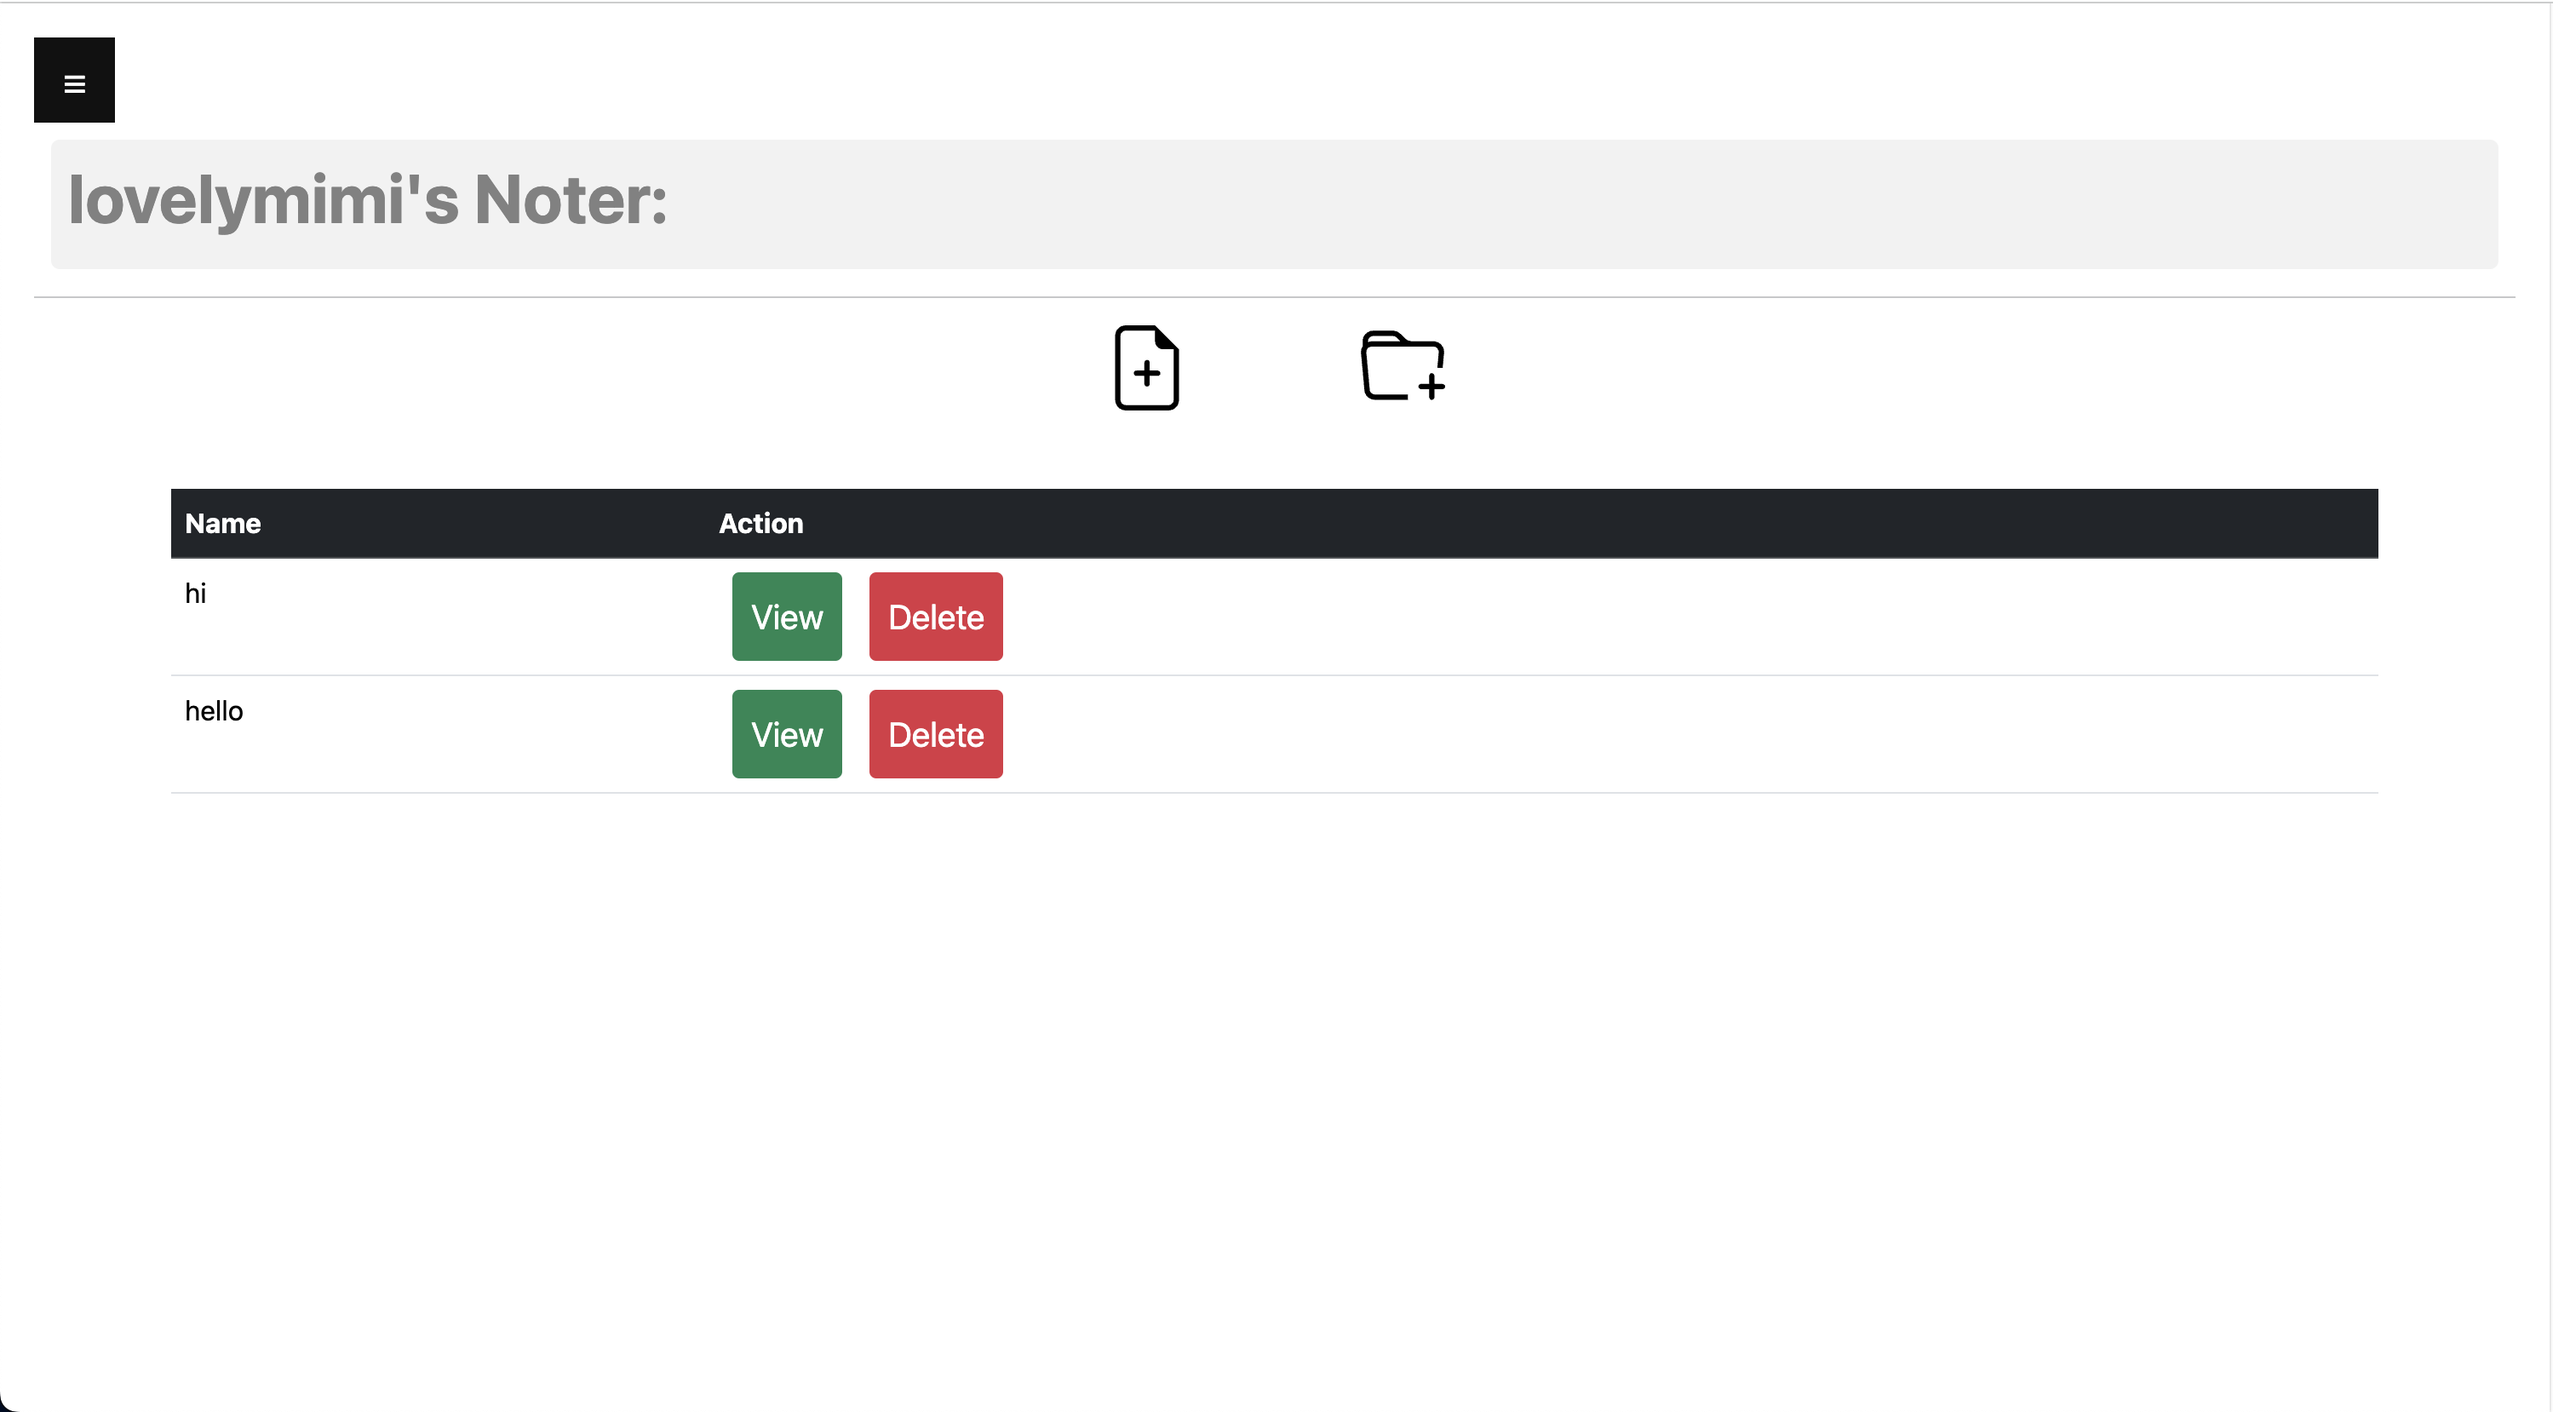
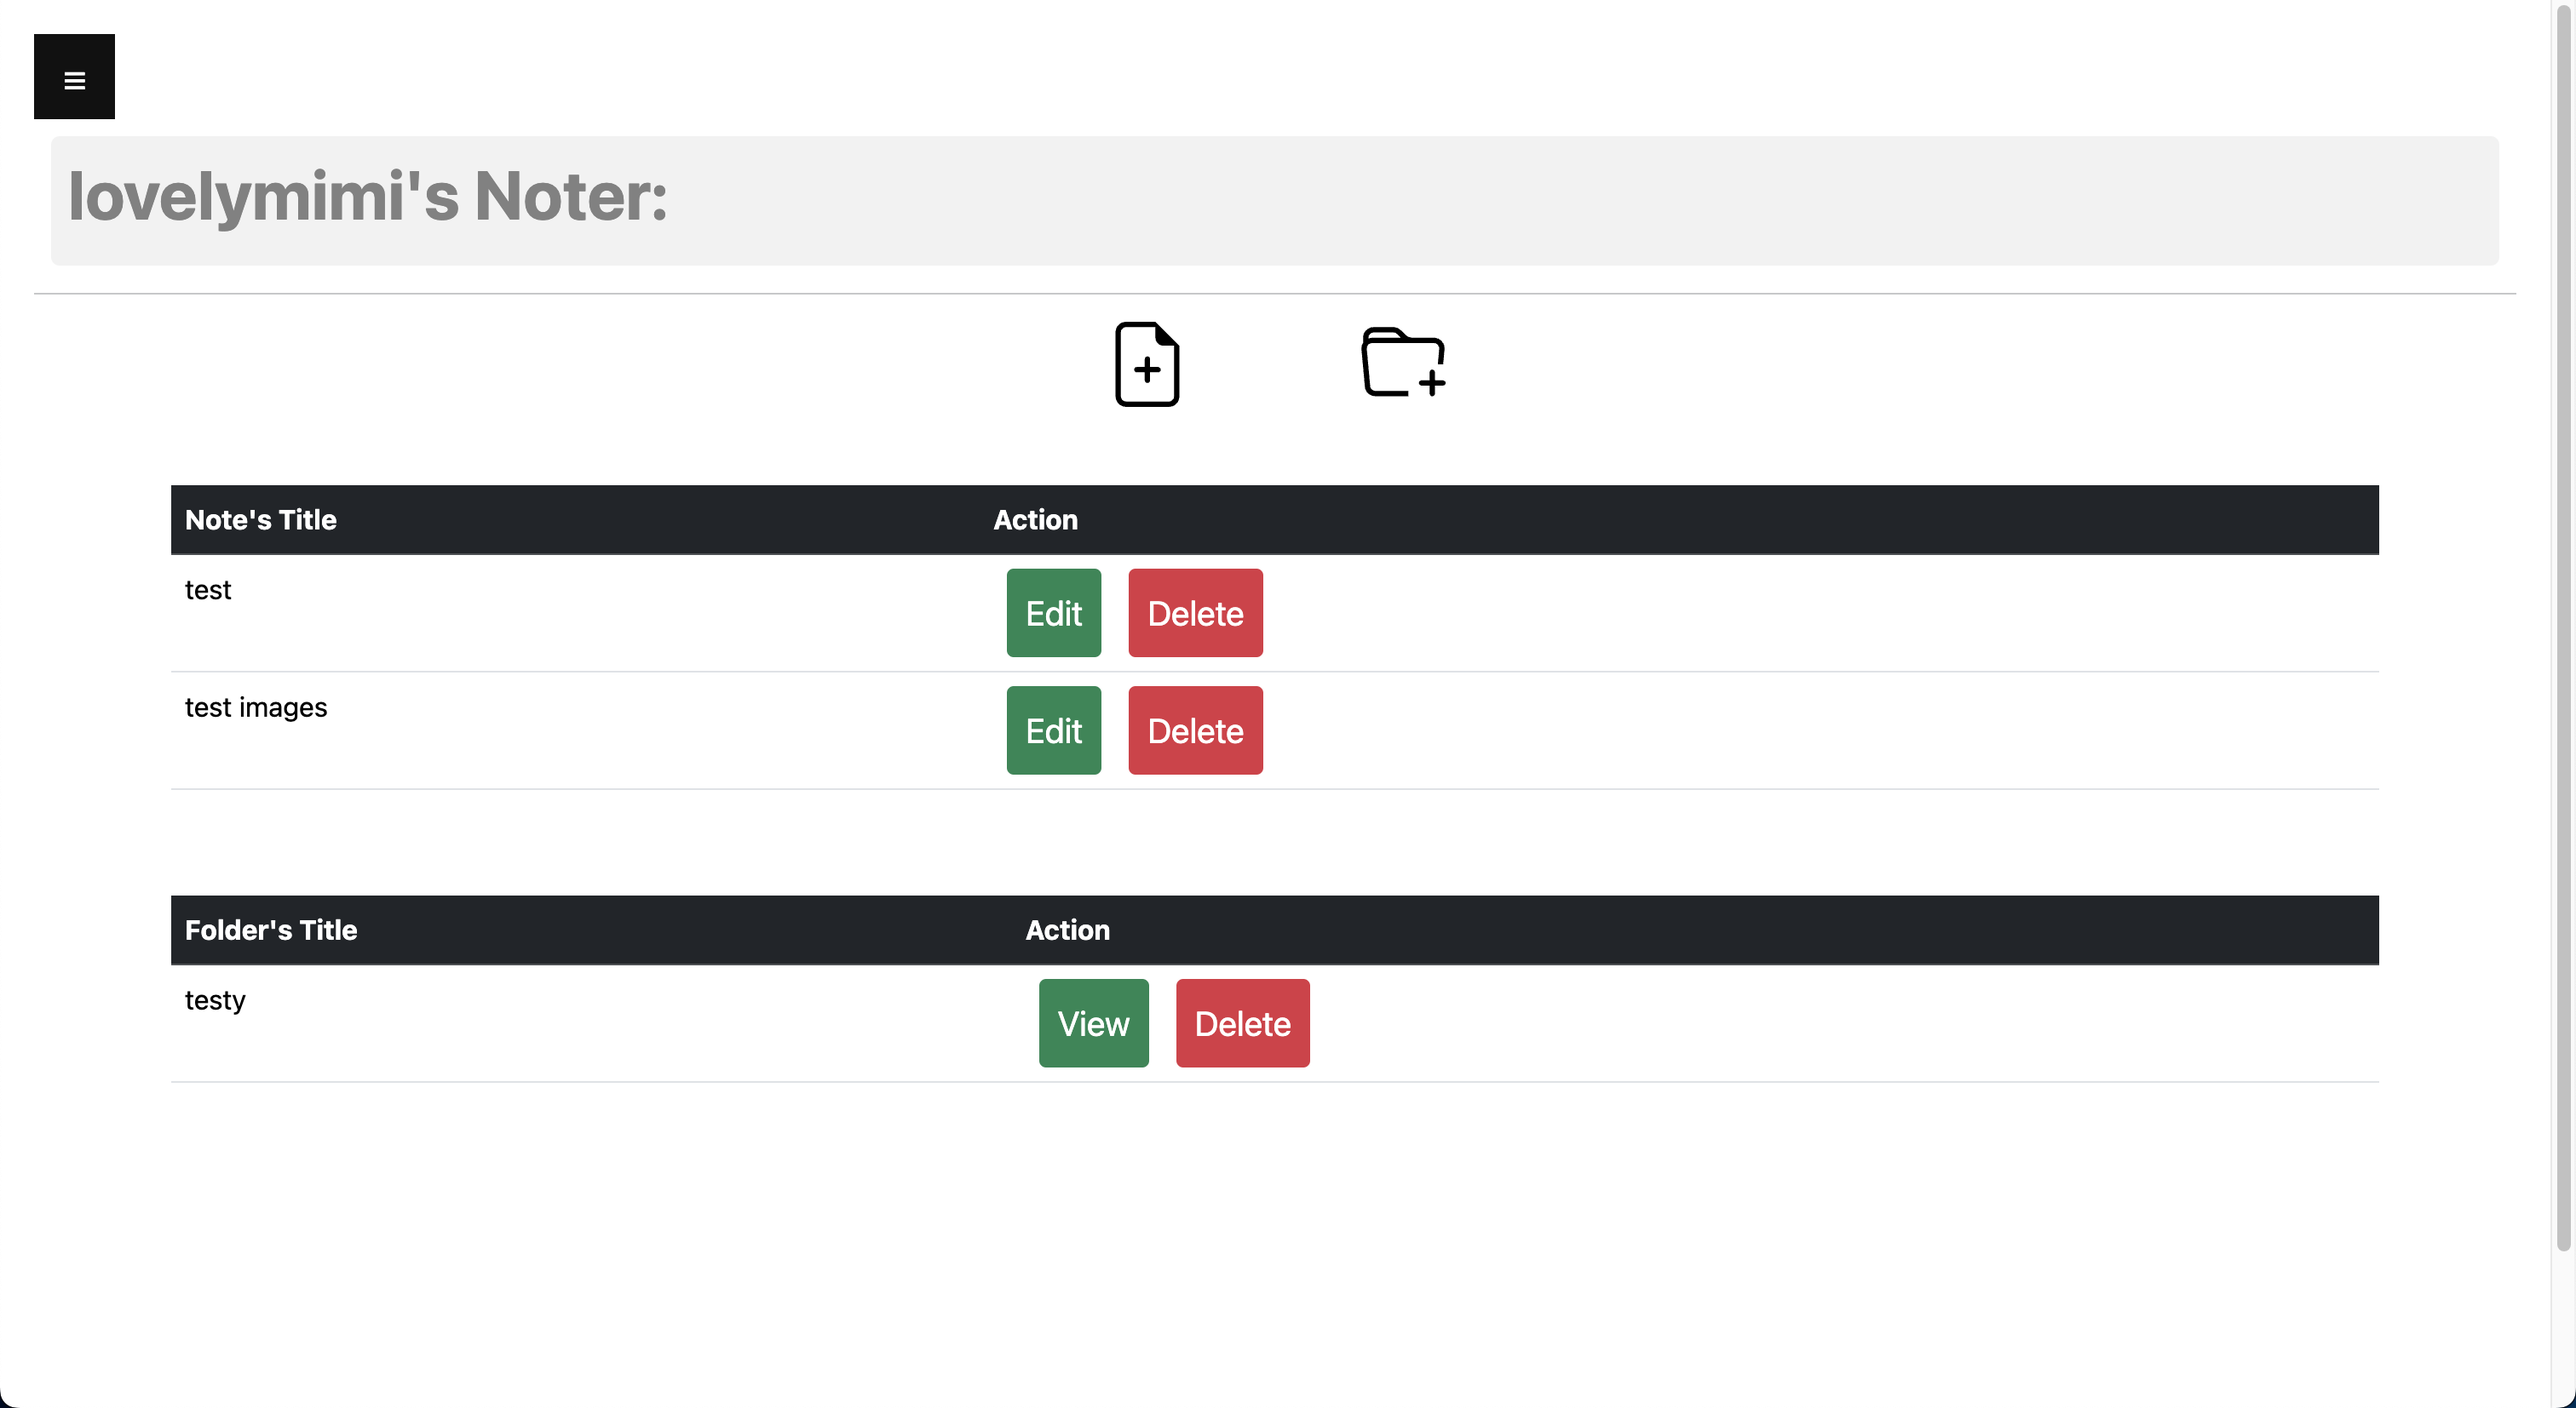
update on README

diff --git a/README.md b/README.md
@@ -1,3 +1,5 @@
+<img src="app/static/images/logo.png" alt="Logo" style="display: block; margin: 0 auto;" width="100px" height="100px">
+<br/>
 <h1 align="center"> Noter</h1>
 
 # Project Members
@@ -54,6 +56,17 @@ pip install flask flask_sqlalchemy flask-ckeditor email-validator Werkzeug==3.0.
 flask run
 ~~~
 
+
+
+⚠ ATTENTION ⚠
+When first running the website, and you encourtered this problem:
+
+```
+ImportError: cannot import name 'url_decode' from 'werkzeug.urls'
+```
+=> We recommend you should close the tab or terminal, then re-run the application later <br>
+This is a little bug from the software and packages that we are using for the project. Thank you for understanding
+
 # Recent Implementation
 1. A simple user Sign Up page for user to create an account with our project to ensure the security of your notes. (**Martin Tran**) <br>
 <img src="app/static/images/sign_up.png" alt="Sign Up Page" width="858" height="800">
@@ -67,11 +80,25 @@ flask run
 4. Storing Notes in the Database, so users can retrieve the notes they created whenever they want (**Hannah Ta & Khai Truong**) 
 
 5. Rich Text Editor when users create new note (**Khai Truong & Martin Tran**) <br>
-<img src="app/static/images/create_note.png" alt="Note Creation Page" width="858" height="800">
+<img src="app/static/images/text_editor.png" alt="Note Creation Page" width="858" height="800">
 
 6. A Log Out Function for you to log out of your note page (**Martin Tran**) <br>
-<img src="app/static/images/logout.png" alt="Log Out Sidebar" width="858" height="800">
+<img src="app/static/images/log_out.png" alt="Log Out Sidebar" width="858" height="800">
 
+7. Ability to Create Folders (**Martin Tran**) <br>
+<img src="app/static/images/folder.png" alt="Note Creation Page" width="858" height="800">
+
+8. Viewing Folders (**Martin Tran**) <br>
+<img src="app/static/images/folder_view.png" alt="Note Creation Page" width="858" height="800">
+
+9. Attach Images inside notes via URLs (**Martin Tran & Khai Truong**) <br>
+<img src="app/static/images/image_attach.png" alt="Note Creation Page" width="858" height="800">
+
+10. Editing Notes (**Hannah Ta**) <br>
+<img src="app/static/images/edit_note.png" alt="Note Creation Page" width="858" height="800">
+
+11. Password Recovery (**Hannah Ta**) <br>
+<img src="app/static/images/reset_password.png" alt="Note Creation Page" width="858" height="800">
 
 
 
